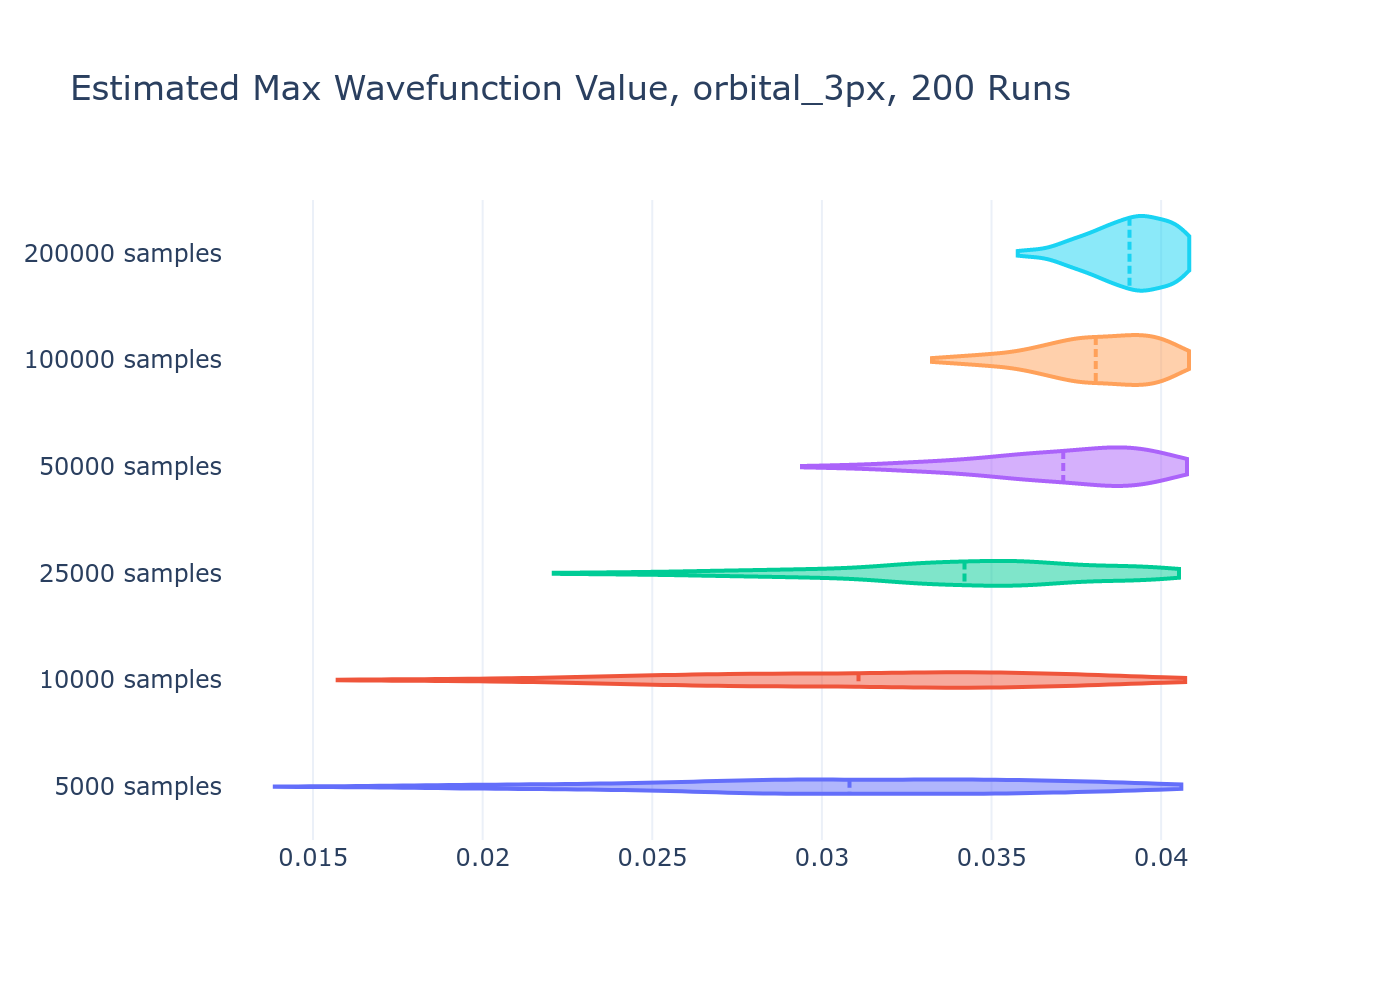
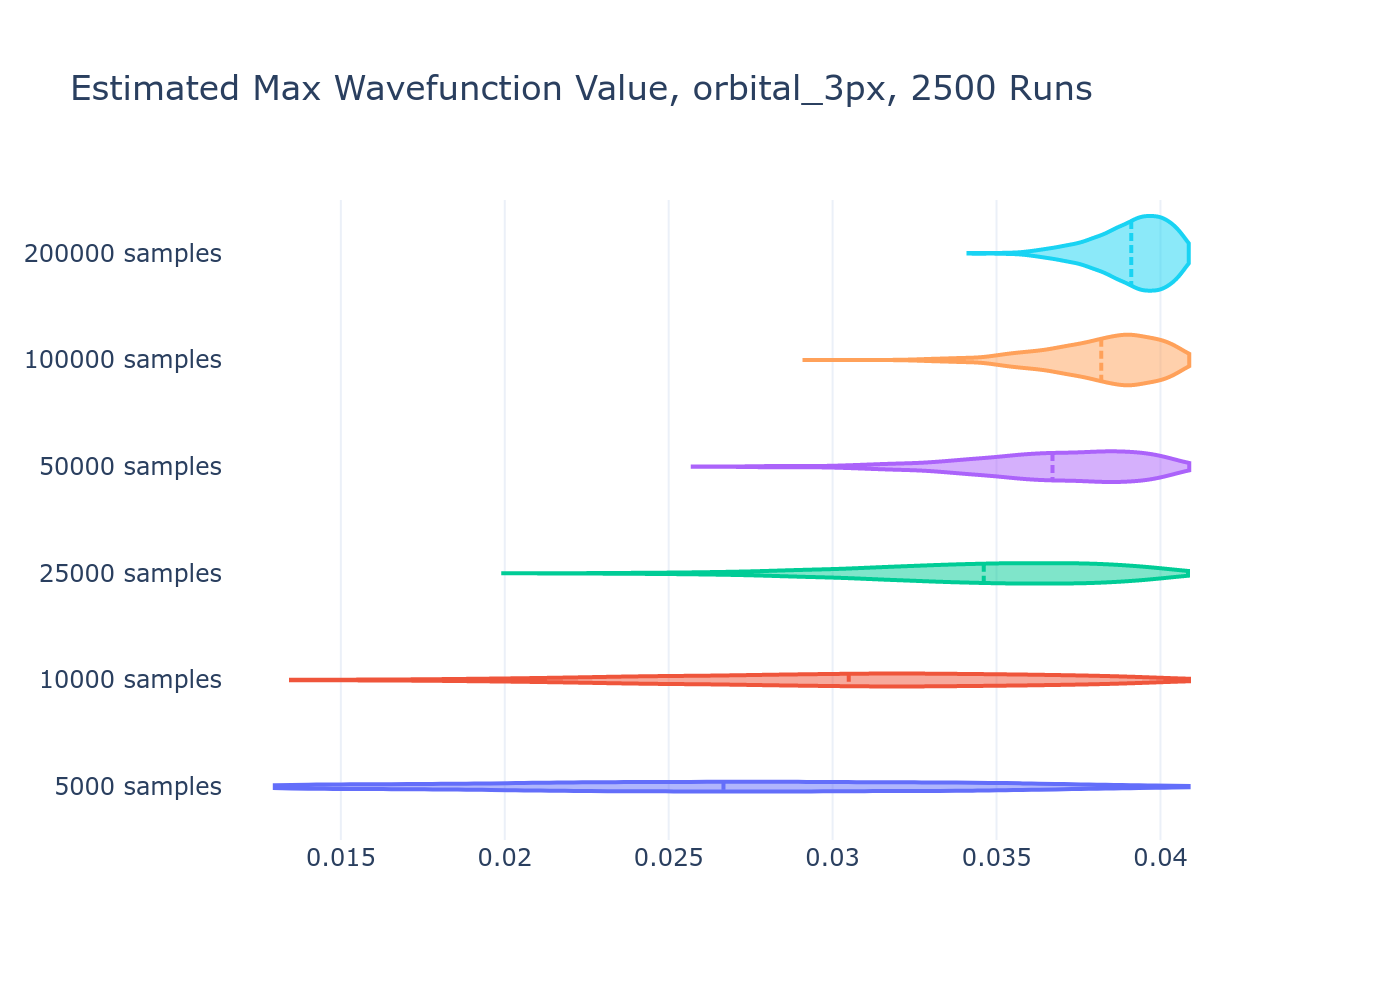
{refactor,feat}(experiments): implement multithreading

diff --git a/experiments/point_cloud.py b/experiments/point_cloud.py
@@ -1,14 +1,12 @@
 #!/usr/bin/env pypy3
 from __future__ import annotations
 
-import webbrowser
-from contextlib import redirect_stdout
+from concurrent import futures
 from enum import Enum
-from io import StringIO
-from itertools import chain
+from itertools import chain, product
 from math import cos, exp, pi, sin, sqrt
 from random import random, uniform
-from typing import Callable, Iterator, NamedTuple, Sequence, Tuple, TypeVar
+from typing import Callable, Collection, Iterable, Iterator, NamedTuple, Sequence, Tuple, TypeVar
 
 import plotly.graph_objects as go
 
@@ -16,6 +14,7 @@ SQRT_PI_INV_OVER_2 = 1 / sqrt(pi) / 2
 
 EvaluationResult = Tuple["Point", float]
 Orbital = Callable[["Point"], EvaluationResult]
+OrbitalSampler = Iterator[EvaluationResult]
 T = TypeVar("T")
 
 
@@ -25,7 +24,7 @@ class Quality(Enum):  # These values seem to produce reasonable-ish results.
     MEDIUM = 25_000
     HIGH = 50_000
     VERY_HIGH = 100_000
-    EXTREME = 200_000  # Over 30 seconds on a 2700X (single-threaded).
+    EXTREME = 200_000  # Over 30 seconds on a 2700X (single-threaded) with CPython 3.9.0.
 
 
 def take(it: Iterator[T], n: int) -> Iterator[T]:
@@ -186,22 +185,33 @@ def orbital_5f_general_zx2y2(point: Point) -> EvaluationResult:
     return point, R * Y
 
 
-def monte_carlo(orbital: Orbital, estimation_sample_count: int) -> Iterator[EvaluationResult]:
-    estimation_sample_count = max(10_000, estimation_sample_count)
+def generate_orbital_sampler(orbital: Orbital) -> OrbitalSampler:
     # Questionable heuristic for estimating the size of the orbital.
     # obtained by inspection of orbital sizes.
     # Note that the 9th char is the principal quantum number (this is a HACK!).
     rho_max = 8 * int(int(orbital.__name__[8])**1.5)
-    sampler = map(orbital, Point.random_points_in_ball(rho_max))
-    estimation_samples = (
-        # Force the origin to be sampled to ensure that s-orbitals are estimated accurately.
-        # Otherwise, the sharp spike near the origin is difficult to sample.
-        # Offset slightly to avoid division-by-zero.
-        orbital(Point(0, 0, 1E-6)),
-        *take(sampler, estimation_sample_count - 1)
-    )
+    # Force the origin to be sampled to ensure that s-orbitals are estimated accurately.
+    # Otherwise, the sharp spike near the origin is difficult to sample.
+    # Offset slightly to avoid division-by-zero.
+    return map(orbital, chain((Point(0, 0, 1E-6),), Point.random_points_in_ball(rho_max)))
+
+
+def estimate_max_wavefunction_value(
+        sampler: OrbitalSampler,
+        num_samples: int
+) -> Tuple[Tuple[EvaluationResult, ...], float]:
+    estimation_samples = tuple(take(sampler, num_samples))
     max_val = max(abs(val) for _, val in estimation_samples)
-    print(f"Approx. max value {max_val}")
+    return estimation_samples, max_val
+
+
+def monte_carlo(orbital: Orbital, estimation_sample_count: int) -> Iterator[EvaluationResult]:
+    sampler = generate_orbital_sampler(orbital)
+    # It appears that around 50_000 samples are required for reasonable accuracy.
+    # (See plots in the max_estimate_accuracy folder.)
+    estimation_sample_count = max(50_000, estimation_sample_count)
+    estimation_samples, max_val = estimate_max_wavefunction_value(sampler, estimation_sample_count)
+    # Reuse the samples taken for estimation.
     for pt, val in chain(estimation_samples, sampler):
         if abs(val) / max_val > random():
             yield pt, val / max_val
@@ -224,12 +234,13 @@ def collect_results(
 
 
 def simulate_and_plot(orbital: Orbital, quality: Quality):
+    print(f"Rendering {orbital.__name__} at {quality.name.lower()} quality...")
     xs, ys, zs, vals = collect_results(take(
         monte_carlo(orbital, quality.value),
         quality.value
     ))
 
-    fig = go.Figure(data=go.Scatter3d(
+    fig = go.Figure(data=go.Scatter3d(  # type: ignore
         x=xs,
         y=ys,
         z=zs,
@@ -250,32 +261,34 @@ def simulate_and_plot(orbital: Orbital, quality: Quality):
     )
     output_filename = f"renders/{orbital.__name__}_{quality.name}.html"
     fig.write_html(output_filename, include_plotlyjs="cdn")
-    # webbrowser.open(output_filename)
 
 
-def plot_max_estimate_accuracies(num_runs: int) -> None:  # This is naaaaasty.
-    for orbital in (
-            obj for name, obj in globals().items()
-            if name.startswith("orbital_")
-    ):
+def render_all_orbitals(orbitals: Iterable[Orbital]) -> None:
+    with futures.ProcessPoolExecutor() as executor:
+        for orbital, quality in product(orbitals, Quality):
+            executor.submit(simulate_and_plot, orbital, quality)
+
+
+def _execute_estimate_test(orbital: Orbital, num_samples: int) -> float:
+    _, max_val = estimate_max_wavefunction_value(generate_orbital_sampler(orbital), num_samples)
+    return max_val
+
+
+def plot_max_estimate_accuracies(orbitals: Collection[Orbital], num_runs: int) -> None:
+    for orbital in orbitals:
         print(f"Generating plot for orbital function {orbital.__name__}")
-        fig = go.Figure()
+        fig = go.Figure()  # type: ignore
 
         for num_samples in (quality.value for quality in Quality):
-            buf = StringIO()
-            with redirect_stdout(buf):
-                for _ in range(num_runs):
-                    # Query one value to force monte_carlo to perform the estimation computation.
-                    next(monte_carlo(orbital, estimation_sample_count=num_samples))
+            with futures.ProcessPoolExecutor() as executor:
+                results = tuple(
+                    executor.submit(_execute_estimate_test, orbital, num_samples)
+                    for _ in range(num_runs)
+                )
+            estimated_max_vals = tuple(result.result() for result in results)
+            print(f"{num_samples:7n} samples: max estimated max value {max(estimated_max_vals)}")
 
-            # The most inelegant method for obtaining this value possible.
-            estimated_max_vals = tuple(map(
-                lambda s: float(s[18:].strip()),
-                buf.getvalue().strip().split("\n")
-            ))
-            print(f"{num_samples} samples: max estimated max value {max(estimated_max_vals)}")
-
-            fig.add_trace(go.Violin(
+            fig.add_trace(go.Violin(  # type: ignore
                 x=estimated_max_vals,
                 name=f"{num_samples} samples",
                 points=False,
@@ -284,6 +297,7 @@ def plot_max_estimate_accuracies(num_runs: int) -> None:  # This is naaaaasty.
                 showlegend=False,
                 scalegroup="fig",
             ))
+
         fig.update_layout(
             title=f"Estimated Max Wavefunction Value, {orbital.__name__}, {num_runs} Runs",
             template="plotly_white",
@@ -295,6 +309,14 @@ def plot_max_estimate_accuracies(num_runs: int) -> None:  # This is naaaaasty.
         )
 
 
+def main() -> None:
+    orbitals = tuple(
+        obj for name, obj in globals().items()
+        if name.startswith("orbital_")
+    )
+    render_all_orbitals(orbitals)
+    # plot_max_estimate_accuracies(orbitals, 2500)
+
+
 if __name__ == "__main__":
-    # simulate_and_plot(orbital_4dx2y2, Quality.VERY_HIGH)
-    plot_max_estimate_accuracies(200)
+    main()
